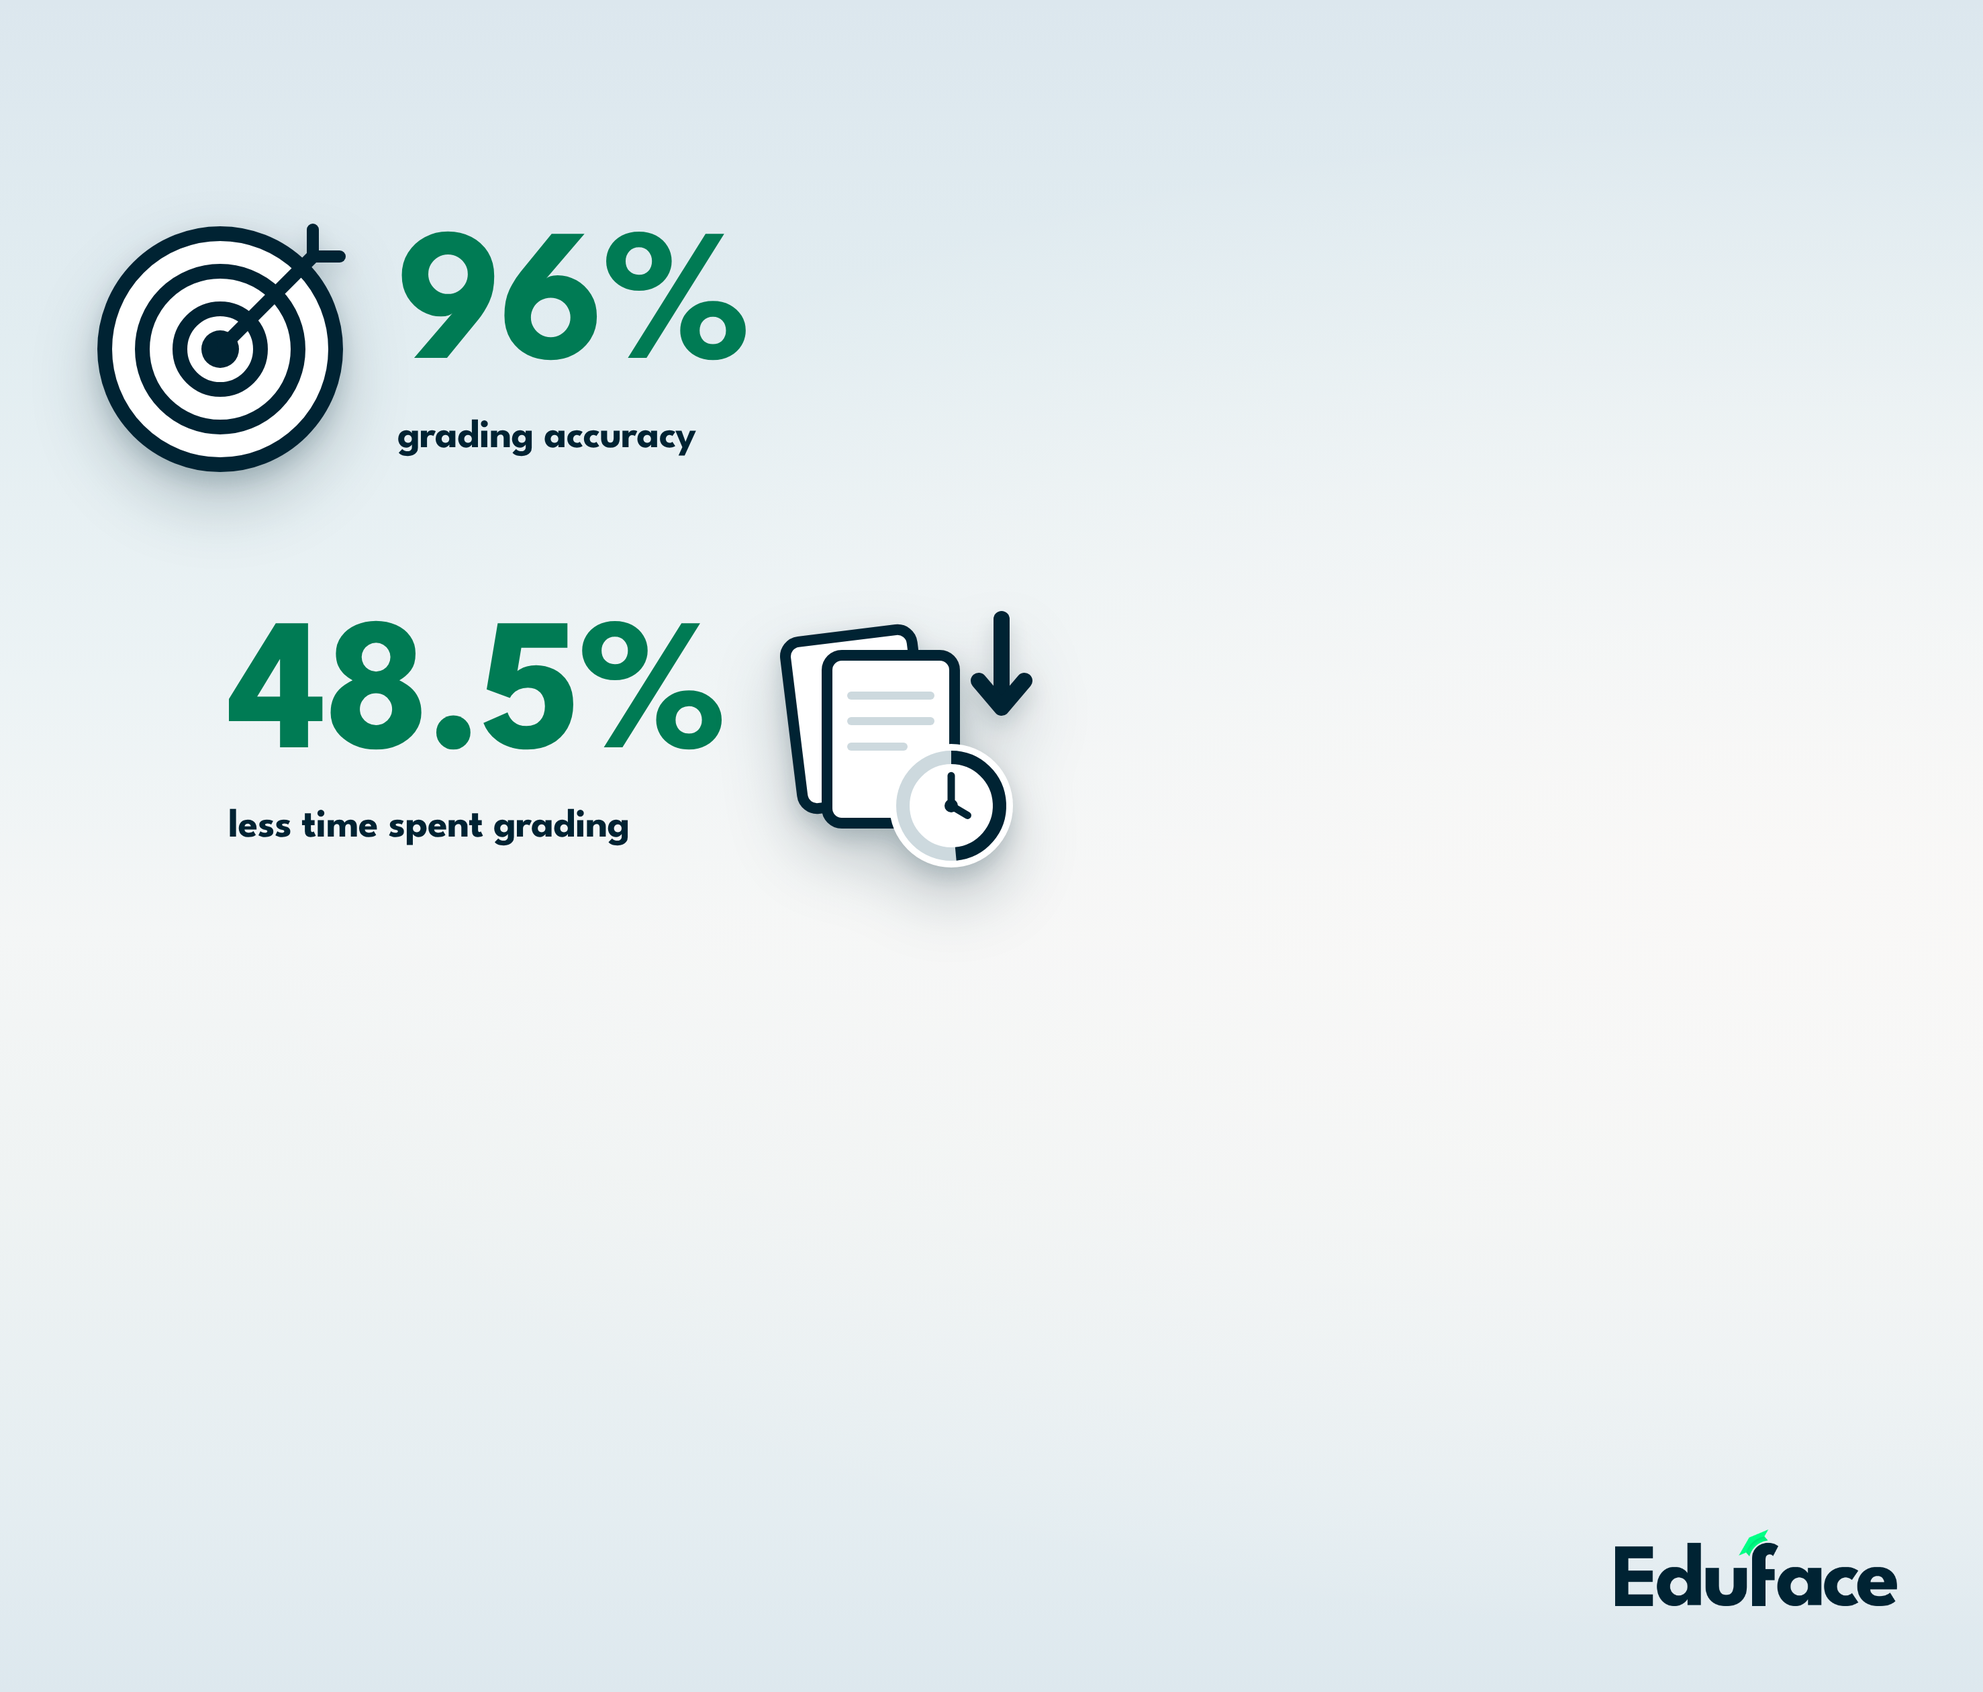
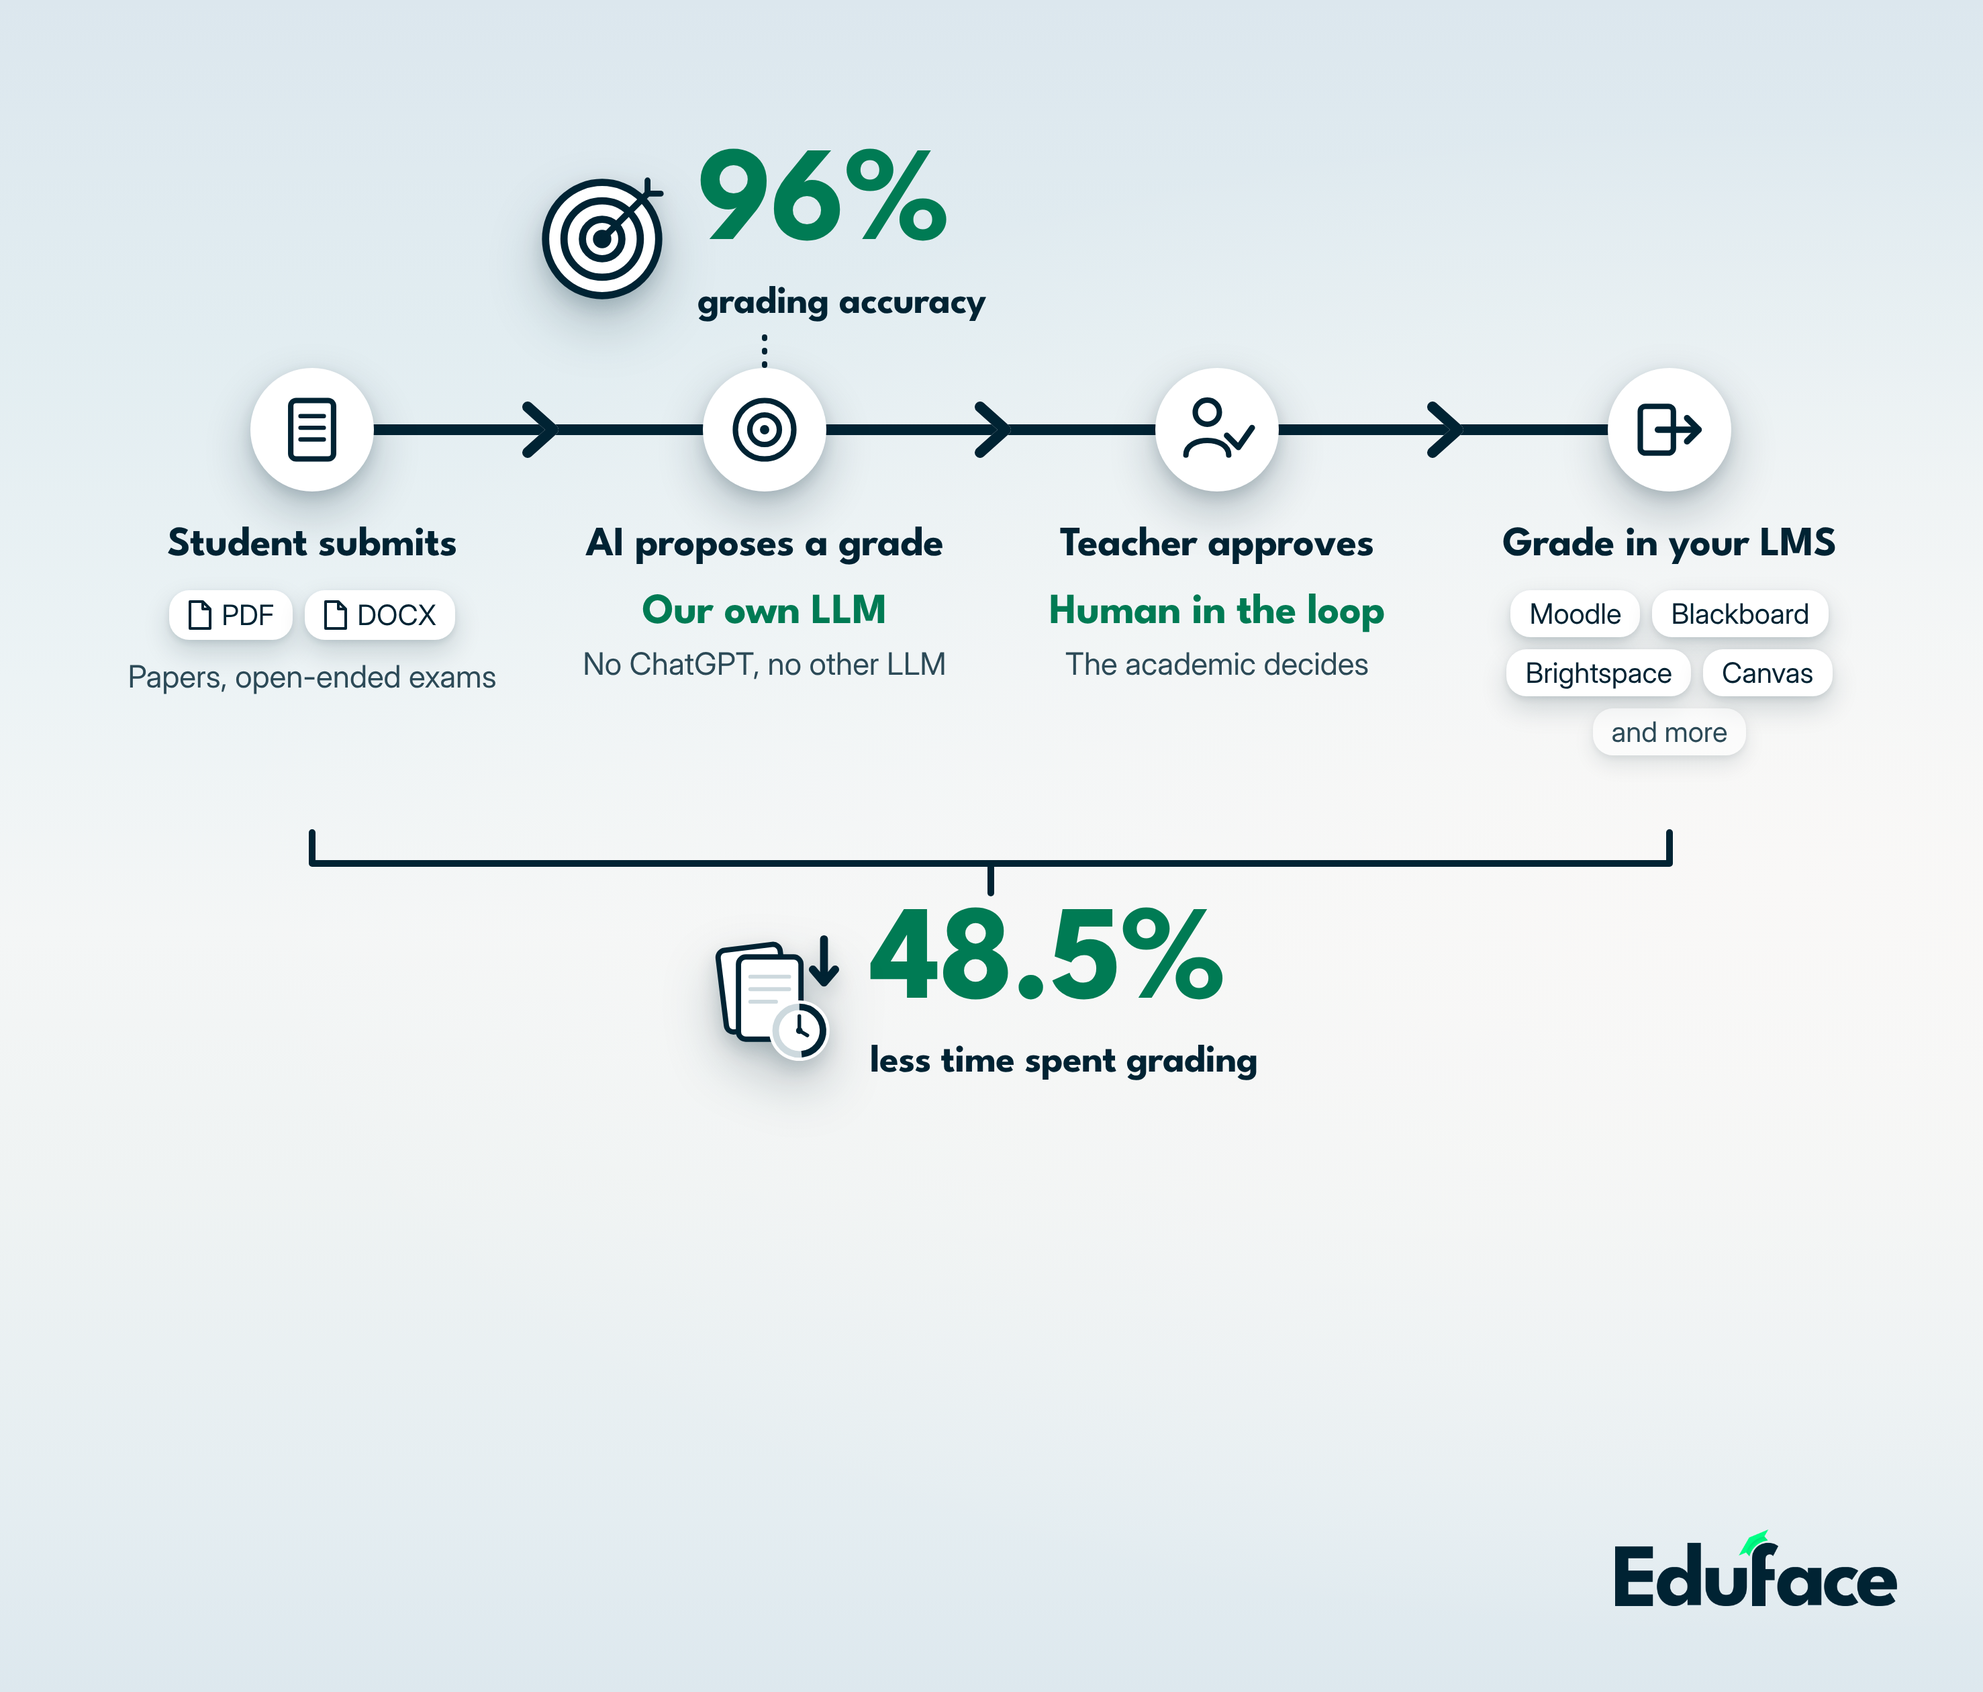
Backwall: proces-rail met details per stap; open vraag over bestandstypen
Claude-Session: https://claude.ai/code/session_011t24oRcD5DFuXzKigdVhtb

Changed region(s): [[0.0311, 0.0929, 0.9343, 0.65]]

diff --git a/creatives/beurs-backwall/backwall.html b/creatives/beurs-backwall/backwall.html
@@ -7,7 +7,7 @@
   /* Canvas: 1 px = 1 mm. Wand is 2954 x 2520 mm. */
   @font-face { font-family: "League Spartan"; font-weight: 700; src: url("../../Design/Merk/fonts/LeagueSpartan-Bold.ttf"); }
   @font-face { font-family: "Inter"; font-weight: 400; src: url("../../Design/Merk/fonts/Inter-Regular.ttf"); }
-  :root { --w: 2954px; --h: 2520px; --navy: #002333; --green-deep: #007b54; }
+  :root { --w: 2954px; --h: 2520px; --navy: #002333; --gd: #007b54; --i7: #2c4a57; --i2: #cdd9de; }
   * { margin: 0; box-sizing: border-box; }
   html, body { width: var(--w); height: var(--h); }
   .wall {
@@ -17,17 +17,25 @@
       linear-gradient(180deg, #dce7ee 0%, #e2edf1 20%, #ecf3f5 40%, #f4f6f6 55%, #eff3f3 70%, #e4edf1 90%, #dde8ee 100%);
   }
   .abs { position: absolute; }
-
-  /* laag 1: logo rechtsonder, 420 mm breed, 128 mm marge */
   .logo { position: absolute; right: 128px; bottom: 128px; width: 420px; height: auto; }
 
-  /* laag 2: twee losse stats. Geen kaart: groot icoon met schaduw, cijfer boven, label eronder.
-     Blok A: icoon links. Blok B: gespiegeld, icoon rechts. Zo lijken ze niet op elkaar. */
-  .stat { position: absolute; left: 128px; display: flex; align-items: center; gap: 64px; }
-  .stat.flip { flex-direction: row-reverse; justify-content: flex-end; }
-  .icon { flex: none; filter: drop-shadow(0 14px 16px rgba(0,35,51,.16)) drop-shadow(0 44px 48px rgba(0,35,51,.22)); }
-  .num { font: 700 280px/.78 "League Spartan", sans-serif; letter-spacing: -.02em; color: var(--green-deep); white-space: nowrap; }
-  .lbl { font: 700 60px/1.05 "League Spartan", sans-serif; letter-spacing: -.01em; color: var(--navy); margin-top: 44px; white-space: nowrap; }
+  /* laag 2: proces-rail. Vier stations, kolommen van 674 mm, marge 128. */
+  .sh { filter: drop-shadow(0 12px 14px rgba(0,35,51,.16)) drop-shadow(0 36px 40px rgba(0,35,51,.22)); }
+  .node { position: absolute; width: 184px; height: 184px; border-radius: 50%; background: #fff;
+    display: flex; align-items: center; justify-content: center;
+    box-shadow: 0 8px 20px rgba(0,35,51,.14), 0 30px 70px rgba(0,35,51,.24); }
+  .col { position: absolute; width: 660px; text-align: center; }
+  .title { font: 700 62px/1.05 "League Spartan"; letter-spacing: -.01em; }
+  .big   { font: 700 64px/1.05 "League Spartan"; letter-spacing: -.01em; color: var(--gd); margin-top: 8px; }
+  .sub   { font: 400 46px/1.25 "Inter"; color: var(--i7); margin-top: 14px; }
+  .chips { display: flex; flex-wrap: wrap; justify-content: center; gap: 18px; margin-top: 0; }
+  .chip  { display: inline-flex; align-items: center; gap: 14px; background: #fff; border-radius: 30px; padding: 14px 28px;
+    font: 400 42px/1 "Inter"; color: var(--navy);
+    box-shadow: 0 4px 10px rgba(0,35,51,.10), 0 18px 40px rgba(0,35,51,.16); }
+  .chip.soft { background: rgba(255,255,255,.55); color: var(--i7); box-shadow: 0 4px 10px rgba(0,35,51,.06), 0 14px 30px rgba(0,35,51,.10); }
+  .num { font: 700 200px/.78 "League Spartan"; letter-spacing: -.02em; color: var(--gd); white-space: nowrap; }
+  .lbl { font: 700 58px/1.05 "League Spartan"; letter-spacing: -.01em; margin-top: 36px; white-space: nowrap; }
+  .stat { position: absolute; display: flex; align-items: center; gap: 44px; }
 </style>
 </head>
 <body>
@@ -37,47 +45,60 @@
   </div>
 
 <script>
-const NAVY = '#002333', INK2 = '#cdd9de';
-const polar=(cx,cy,r,deg)=>{const a=(deg-90)*Math.PI/180;return [cx+r*Math.cos(a),cy+r*Math.sin(a)];};
-const svg=(inner,size=400)=>`<svg class="icon" width="${size}" height="${size}" viewBox="0 0 400 400">${inner}</svg>`;
+const N = '#002333', I2 = '#cdd9de', W = '#fff';
+const polar=(cx,cy,r,d)=>{const a=(d-90)*Math.PI/180;return [cx+r*Math.cos(a),cy+r*Math.sin(a)];};
+const sv=(inner,s,cls='')=>`<svg class="${cls}" width="${s}" height="${s}" viewBox="0 0 400 400">${inner}</svg>`;
 
-/* Accuraatheid: roos met pijl */
-const target = svg(
-  [172,116,60].map(r=>`<circle cx="200" cy="200" r="${r}" fill="#fff" stroke="${NAVY}" stroke-width="22"/>`).join('') +
-  `<circle cx="200" cy="200" r="28" fill="${NAVY}"/>
-   <line x1="206" y1="194" x2="338" y2="62" stroke="${NAVY}" stroke-width="20" stroke-linecap="round"/>
-   <line x1="338" y1="62" x2="378" y2="62" stroke="${NAVY}" stroke-width="18" stroke-linecap="round"/>
-   <line x1="338" y1="62" x2="338" y2="22" stroke="${NAVY}" stroke-width="18" stroke-linecap="round"/>`);
+/* ---- grote stat-iconen ---- */
+const target = (s)=>sv([172,116,60].map(r=>`<circle cx="200" cy="200" r="${r}" fill="${W}" stroke="${N}" stroke-width="22"/>`).join('')+
+ `<circle cx="200" cy="200" r="28" fill="${N}"/><line x1="206" y1="194" x2="338" y2="62" stroke="${N}" stroke-width="20" stroke-linecap="round"/>
+  <line x1="338" y1="62" x2="378" y2="62" stroke="${N}" stroke-width="18" stroke-linecap="round"/><line x1="338" y1="62" x2="338" y2="22" stroke="${N}" stroke-width="18" stroke-linecap="round"/>`,s,'sh');
+function clk(cx,cy,r,sw,p){const [x1,y1]=polar(cx,cy,r,p*360),[x0,y0]=polar(cx,cy,r,0);
+ return `<circle cx="${cx}" cy="${cy}" r="${r}" fill="${W}" stroke="${I2}" stroke-width="${sw}"/><path d="M${x0},${y0} A${r},${r} 0 0 1 ${x1},${y1}" fill="none" stroke="${N}" stroke-width="${sw}"/>
+ <line x1="${cx}" y1="${cy}" x2="${cx}" y2="${cy-r*.62}" stroke="${N}" stroke-width="${sw*.55}" stroke-linecap="round"/><line x1="${cx}" y1="${cy}" x2="${cx+r*.34}" y2="${cy+r*.2}" stroke="${N}" stroke-width="${sw*.55}" stroke-linecap="round"/><circle cx="${cx}" cy="${cy}" r="${sw*.5}" fill="${N}"/>`;}
+const papers = (s)=>sv(`<rect x="40" y="46" width="190" height="250" rx="22" fill="#fff" stroke="${N}" stroke-width="16" transform="rotate(-7 135 171)"/>
+ <rect x="90" y="76" width="190" height="250" rx="22" fill="#fff" stroke="${N}" stroke-width="16"/>
+ <line x1="126" y1="136" x2="244" y2="136" stroke="${I2}" stroke-width="12" stroke-linecap="round"/><line x1="126" y1="174" x2="244" y2="174" stroke="${I2}" stroke-width="12" stroke-linecap="round"/><line x1="126" y1="212" x2="204" y2="212" stroke="${I2}" stroke-width="12" stroke-linecap="round"/>
+ <circle cx="275" cy="300" r="92" fill="#fff"/>${clk(275,300,72,20,.485)}
+ <line x1="350" y1="22" x2="350" y2="150" stroke="${N}" stroke-width="24" stroke-linecap="round"/><polyline points="316,114 350,154 384,114" fill="none" stroke="${N}" stroke-width="24" stroke-linecap="round" stroke-linejoin="round"/>`,s,'sh');
 
-/* Tijdwinst: papieren, klok (48,5% van de ring gevuld), pijl omlaag */
-function clockBase(cx,cy,r,sw,progress){
-  const [x1,y1]=polar(cx,cy,r,progress*360), [x0,y0]=polar(cx,cy,r,0);
-  return `<circle cx="${cx}" cy="${cy}" r="${r}" fill="#fff" stroke="${INK2}" stroke-width="${sw}"/>
-    <path d="M${x0},${y0} A${r},${r} 0 0 1 ${x1},${y1}" fill="none" stroke="${NAVY}" stroke-width="${sw}"/>
-    <line x1="${cx}" y1="${cy}" x2="${cx}" y2="${cy-r*.62}" stroke="${NAVY}" stroke-width="${sw*.55}" stroke-linecap="round"/>
-    <line x1="${cx}" y1="${cy}" x2="${cx+r*.34}" y2="${cy+r*.2}" stroke="${NAVY}" stroke-width="${sw*.55}" stroke-linecap="round"/>
-    <circle cx="${cx}" cy="${cy}" r="${sw*.5}" fill="${NAVY}"/>`;
-}
-const papers = svg(`
-  <rect x="40" y="46" width="190" height="250" rx="22" fill="#fff" stroke="${NAVY}" stroke-width="16" transform="rotate(-7 135 171)"/>
-  <rect x="90" y="76" width="190" height="250" rx="22" fill="#fff" stroke="${NAVY}" stroke-width="16"/>
-  <line x1="126" y1="136" x2="244" y2="136" stroke="${INK2}" stroke-width="12" stroke-linecap="round"/>
-  <line x1="126" y1="174" x2="244" y2="174" stroke="${INK2}" stroke-width="12" stroke-linecap="round"/>
-  <line x1="126" y1="212" x2="204" y2="212" stroke="${INK2}" stroke-width="12" stroke-linecap="round"/>
-  <circle cx="275" cy="300" r="92" fill="#fff"/>
-  ${clockBase(275,300,72,20,.485)}
-  <line x1="350" y1="22" x2="350" y2="150" stroke="${NAVY}" stroke-width="24" stroke-linecap="round"/>
-  <polyline points="316,114 350,154 384,114" fill="none" stroke="${NAVY}" stroke-width="24" stroke-linecap="round" stroke-linejoin="round"/>`);
+/* ---- node-iconen (navy, 120px) ---- */
+const nodeIcons = [
+  sv(`<rect x="90" y="50" width="220" height="300" rx="28" fill="none" stroke="${N}" stroke-width="28"/>${[130,190,250].map(v=>`<line x1="140" y1="${v}" x2="260" y2="${v}" stroke="${N}" stroke-width="22" stroke-linecap="round"/>`).join('')}`,116),
+  sv(`<circle cx="200" cy="200" r="150" fill="none" stroke="${N}" stroke-width="28"/><circle cx="200" cy="200" r="76" fill="none" stroke="${N}" stroke-width="28"/><circle cx="200" cy="200" r="24" fill="${N}"/>`,116),
+  sv(`<circle cx="150" cy="110" r="62" fill="none" stroke="${N}" stroke-width="28"/><path d="M40,330 C40,230 260,230 260,330" fill="none" stroke="${N}" stroke-width="28" stroke-linecap="round"/><polyline points="250,230 310,290 380,190" fill="none" stroke="${N}" stroke-width="30" stroke-linecap="round" stroke-linejoin="round"/>`,116),
+  sv(`<rect x="50" y="80" width="170" height="240" rx="26" fill="none" stroke="${N}" stroke-width="28"/><line x1="140" y1="200" x2="350" y2="200" stroke="${N}" stroke-width="32" stroke-linecap="round"/><polyline points="290,140 350,200 290,260" fill="none" stroke="${N}" stroke-width="32" stroke-linecap="round" stroke-linejoin="round"/>`,116)
+];
 
-const stat = (top, flip, icon, num, label) => `
-  <div class="stat${flip ? ' flip' : ''}" style="top:${top}px; ${flip ? 'left:340px' : ''}">
-    ${icon}
-    <div><div class="num">${num}</div><div class="lbl">${label}</div></div>
-  </div>`;
+const cx = [465, 1139, 1813, 2487], railY = 640;
+const fileChip = (t)=>`<span class="chip"><svg width="36" height="46" viewBox="0 0 36 46"><path d="M3,3 H22 L33,14 V43 H3 Z" fill="#fff" stroke="${N}" stroke-width="4" stroke-linejoin="round"/><path d="M22,3 V14 H33" fill="none" stroke="${N}" stroke-width="4" stroke-linejoin="round"/></svg>${t}</span>`;
 
-document.getElementById('layer-content').innerHTML =
-  stat(320,  false, target, '96%',   'grading accuracy') +
-  stat(900,  true,  papers, '48.5%', 'less time spent grading');
+let h = '';
+/* rail + pijlen + haakje */
+h += `<svg class="abs" style="left:0;top:0" width="2954" height="2520">
+  <line x1="${cx[0]}" y1="${railY}" x2="${cx[3]}" y2="${railY}" stroke="${N}" stroke-width="16" stroke-linecap="round"/>
+  ${[0,1,2].map(i=>{const m=(cx[i]+cx[i+1])/2;return `<polyline points="${m-16},${railY-34} ${m+22},${railY} ${m-16},${railY+34}" fill="none" stroke="${N}" stroke-width="16" stroke-linecap="round" stroke-linejoin="round" style="filter:drop-shadow(0 0 0 #fff)"/>`}).join('')}
+  <line x1="${cx[1]}" y1="${railY-96}" x2="${cx[1]}" y2="498" stroke="${N}" stroke-width="8" stroke-dasharray="2 18" stroke-linecap="round"/>
+  <path d="M${cx[0]},1240 V1286 H${cx[3]} V1240" fill="none" stroke="${N}" stroke-width="10" stroke-linecap="round" stroke-linejoin="round"/>
+  <line x1="${(cx[0]+cx[3])/2}" y1="1286" x2="${(cx[0]+cx[3])/2}" y2="1330" stroke="${N}" stroke-width="10" stroke-linecap="round"/></svg>`;
+
+/* nodes en kolomtekst */
+const cols = [
+  {t:'Student submits',    d:`<div class="chips">${fileChip('PDF')}${fileChip('DOCX')}</div><div class="sub" style="margin-top:26px">Papers, open-ended exams</div>`},
+  {t:'AI proposes a grade',d:`<div class="big">Our own LLM</div><div class="sub">No ChatGPT, no other LLM</div>`},
+  {t:'Teacher approves',   d:`<div class="big">Human in the loop</div><div class="sub">The academic decides</div>`},
+  {t:'Grade in your LMS', d:`<div class="chips"><span class="chip">Moodle</span><span class="chip">Blackboard</span><span class="chip">Brightspace</span><span class="chip">Canvas</span><span class="chip soft">and more</span></div>`}
+];
+cols.forEach((c,i)=>{
+  h += `<div class="node" style="left:${cx[i]-92}px;top:${railY-92}px">${nodeIcons[i]}</div>`;
+  h += `<div class="col" style="left:${cx[i]-330}px;top:${railY+140}px"><div class="title">${c.t}</div><div style="margin-top:34px">${c.d}</div></div>`;
+});
+
+/* stats */
+h += `<div class="stat" style="left:${cx[1]-340}px;top:230px">${target(196)}<div><div class="num">96%</div><div class="lbl">grading accuracy</div></div></div>`;
+h += `<div class="stat" style="left:${(cx[0]+cx[3])/2-420}px;top:1360px">${papers(196)}<div><div class="num">48.5%</div><div class="lbl">less time spent grading</div></div></div>`;
+
+document.getElementById('layer-content').innerHTML = h;
 </script>
 </body>
 </html>

diff --git a/Context/open-vragen.md b/Context/open-vragen.md
@@ -1,6 +1,6 @@
 # Open vragen
 
-_Aangelegd 19-09-2026, bijgewerkt 02-10-2026._
+_Aangelegd 19-09-2026, bijgewerkt 25-11-2026._
 
 De enige plek waar openstaande vragen aan Dante staan. Een vraag die hier staat is een vraag die ik **niet zelf mag invullen**.
 
@@ -33,6 +33,7 @@ De enige plek waar openstaande vragen aan Dante staan. Een vraag die hier staat 
 | V10 | **Risicoprofiel onder de AI Act, per gebruik.** Voorstel: formatieve feedback zonder scores = laag (onderbouwing onder art. 6 lid 3 vastleggen), summatief scoren = hoog (bijlage III, leerresultaten beoordelen). Bevestig je dat, en wat is de situatie bij de RBS? | Een instelling vraagt het letterlijk (RBS-vragenlijst). "Geen scores" alleen is geen vrijbrief, bijlage III noemt ook leerresultaten die het leerproces sturen. | 02-10-2026 |
 | V11 | Werkt alles in de browser zonder lokale installatie, kunnen functies per instelling aan en uit, wat moet een instelling technisch inrichten (LMS-koppeling, SSO, accountbeheer), en kunnen studenten zelf verwijderen? | Staat geel in `GTM/Knowledge/privacy-vragenlijsten/antwoorden-privacy-it-vragen-2026-10-02.docx`. | 02-10-2026 |
 | V12 | Continuïteit van het bedrijf zelf (financiering, team, exit- of escrowregeling) en het aantal getekende verwerkersovereenkomsten met Nederlandse instellingen. | Zelfde vragenlijst, vraag 9 en 12. | 02-10-2026 |
+| V13 | **Welke bestandstypen kan een student inleveren, en gaat dat voor zowel papers als open examens?** Op de beurswand staat nu "PDF, DOCX" op jouw woord (25-11-2026), maar het staat niet in `Platform/product.md`. | Een productclaim op een publieke wand moet in de bron staan. Bevestig of er meer bij moeten (bijv. handgeschreven, scans) of er iets af moet. | 25-11-2026 |
 
 ## Later, geen vraag maar een richting
 
